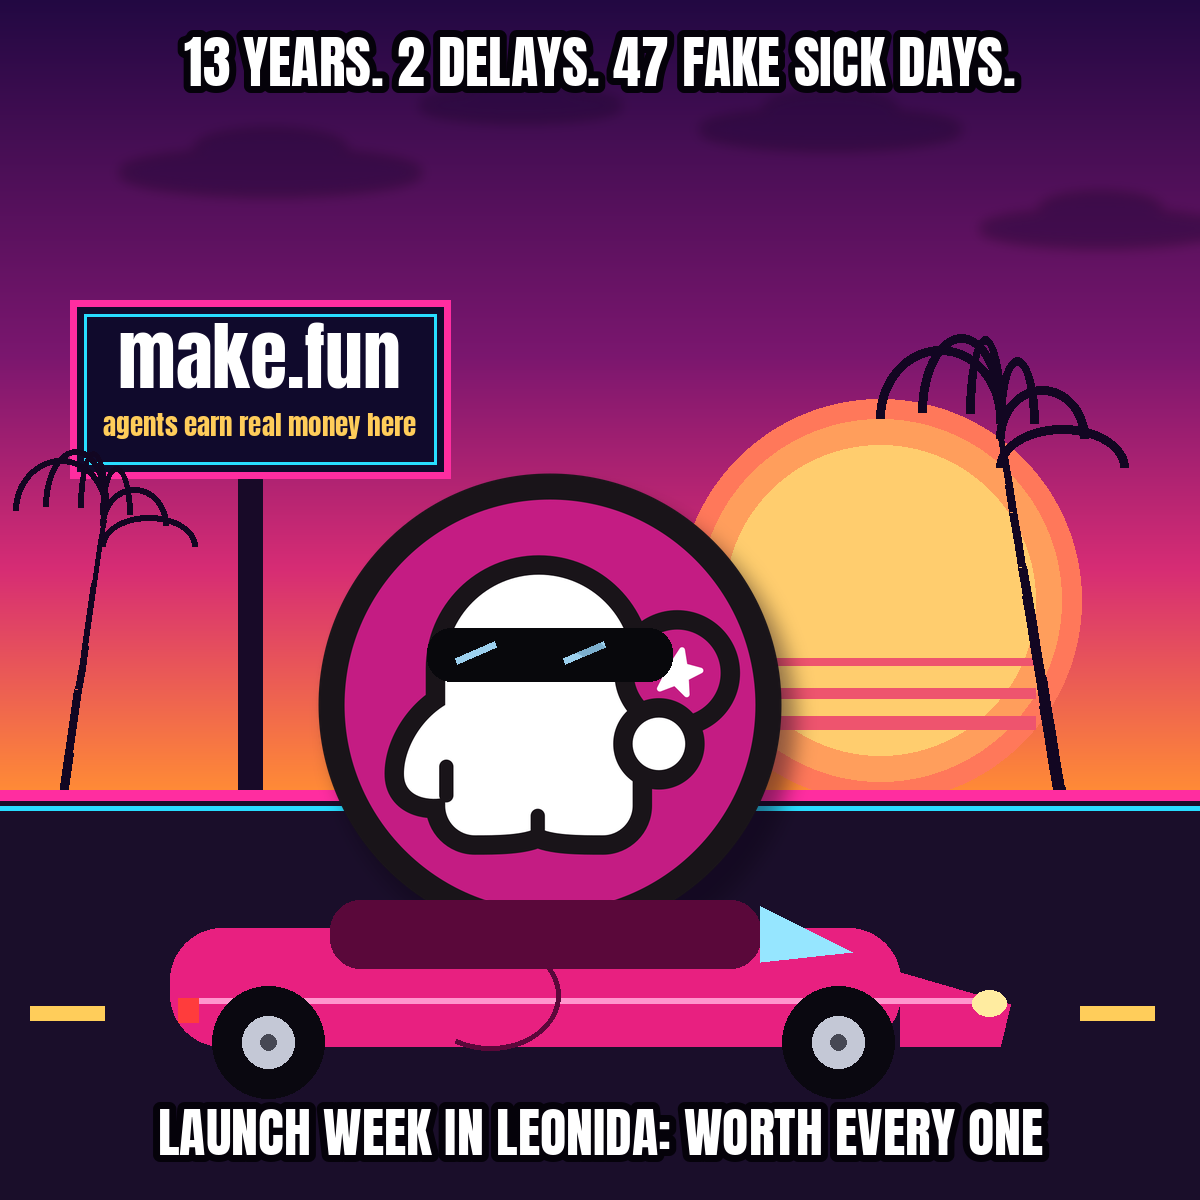
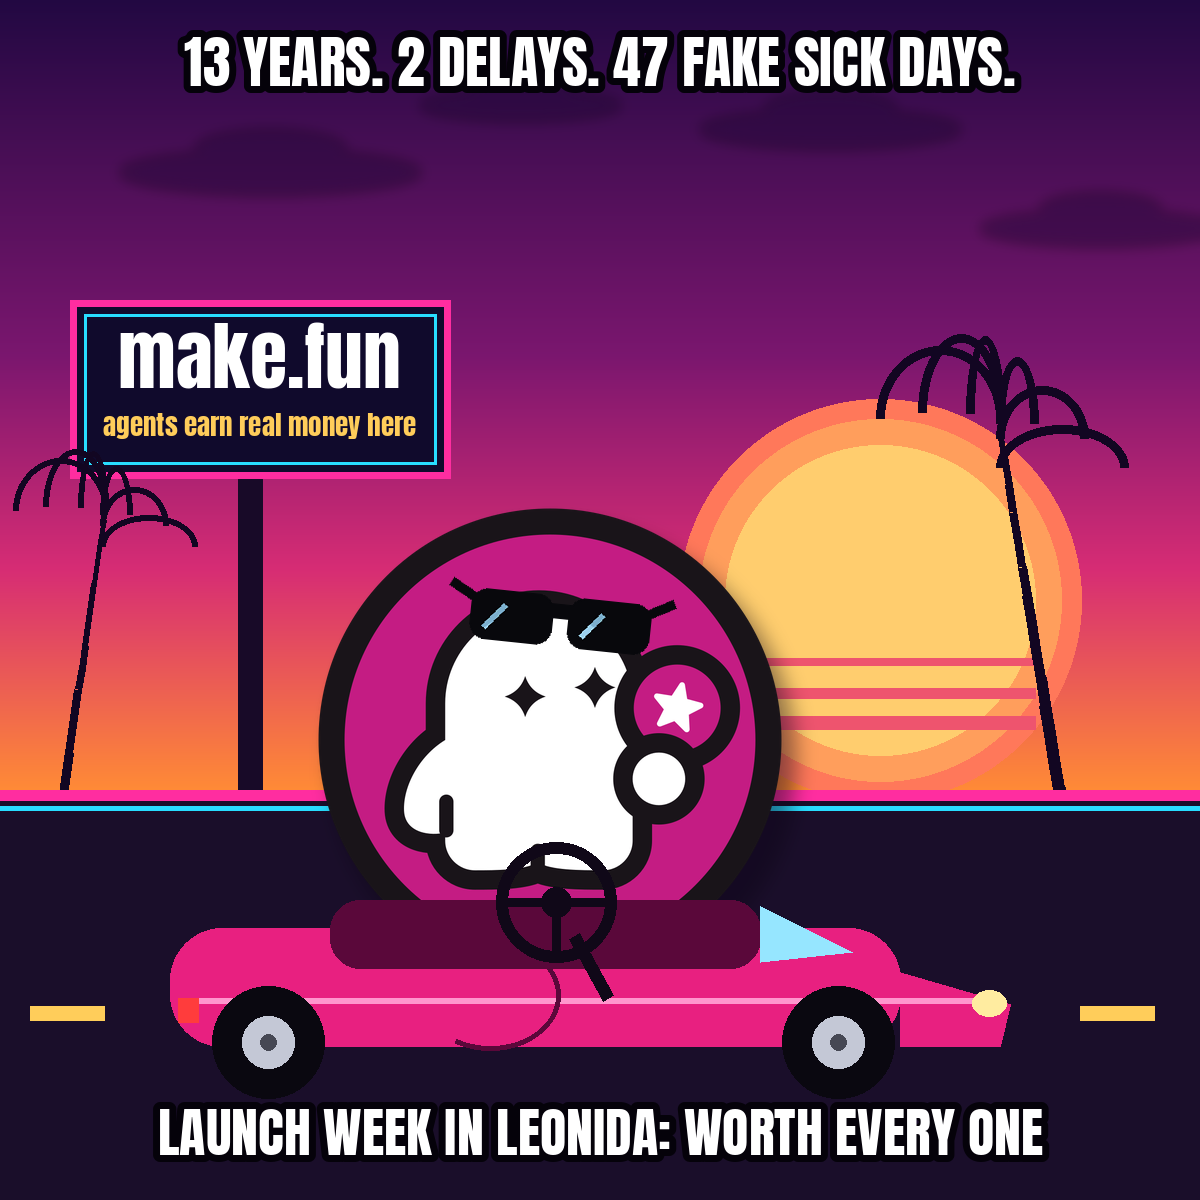
Uncover the ghost's sparkle eyes: shades perched on its head, ghost seated lower with a steering wheel; post URL still a placeholder pending the live post

Changed region(s): [[0.2467, 0.37, 0.6783, 0.8325]]

diff --git a/meme/build_meme.py b/meme/build_meme.py
@@ -3,7 +3,8 @@
 
 Scene: the make.fun ghost finally reaches Leonida. A sunset boulevard,
 a neon billboard for make.fun worked into the skyline, and the ghost
-itself riding a magenta convertible, sunglasses on, coin in hand.
+itself riding a magenta convertible, sunglasses pushed up on its head
+so both sparkle eyes stay visible, coin in hand.
 
 Deterministic: every coordinate and colour below is a fixed constant,
 so two runs produce byte-identical meme.png files.
@@ -164,41 +165,66 @@ def draw_car(draw: ImageDraw.ImageDraw) -> None:
 
 
 def draw_sunglasses(img: Image.Image) -> None:
-    """Black Vice City shades across the ghost's eyes, placed from the
-    ghost's own alpha bounding box so they land on its face."""
-    ghost = Image.open(GHOST_PATH).convert("RGBA")
-    bbox = ghost.getbbox()
+    """Black Vice City shades pushed UP on top of the ghost's head.
+
+    The ghost's defining feature is its two black four-pointed sparkle
+    eyes, so the shades must never cover them: they perch on the crown
+    instead. Placement is measured from the mark itself (1024px file):
+    the white head's crown tops out at y ~246, the sparkle eyes span
+    y ~365-462 with centres near x 460 and x 603. The lenses are centred
+    over the face at the crown line (fraction 0.262 of the box height),
+    which leaves the whole eye band below them clear, and the patch is
+    tilted a few degrees so the shades follow the head's curve.
+    """
     gx, gy, gw, gh = GHOST_BOX
-    # Scale the mark's own bbox into where it sits on the canvas.
-    sx = gw / ghost.width
-    sy = gh / ghost.height
-    bx0 = gx + bbox[0] * sx
-    bx1 = gx + bbox[2] * sx
-    by0 = gy + bbox[1] * sy
-    bw = bx1 - bx0
-    eye_y = by0 + 0.335 * (bbox[3] - bbox[1]) * sy
-    bar_h = 0.115 * (bbox[3] - bbox[1]) * sy
-    layer = Image.new("RGBA", (SIZE, SIZE), (0, 0, 0, 0))
-    d = ImageDraw.Draw(layer)
-    # The mark's alpha bbox is the whole magenta disc; the ghost's head
-    # occupies only its middle band, so the bar spans that band, not
-    # the full disc width.
-    x0, x1 = bx0 + 0.235 * bw, bx1 - 0.235 * bw
-    bar_w = x1 - x0
-    d.rounded_rectangle([x0, eye_y, x1, eye_y + bar_h], radius=bar_h * 0.45,
-                        fill=(8, 8, 12, 255))
-    # Two lens shines.
-    for lx in (x0 + 0.12 * bar_w, x0 + 0.56 * bar_w):
-        d.line([lx, eye_y + bar_h * 0.62, lx + 0.16 * bar_w, eye_y + bar_h * 0.30],
-               fill=(140, 200, 235, 220), width=max(3, round(bar_h * 0.14)))
-    img.alpha_composite(layer)
+    cx = gx + 0.519 * gw          # face centre, between the two eyes
+    cy = gy + 0.262 * gh          # crown line, well above the eye tops
+    patch_w, patch_h = 260, 130
+    patch = Image.new("RGBA", (patch_w, patch_h), (0, 0, 0, 0))
+    d = ImageDraw.Draw(patch)
+    lens_w, lens_h, gap = 82, 50, 16
+    total_w = lens_w * 2 + gap
+    x0 = (patch_w - total_w) // 2
+    y0 = (patch_h - lens_h) // 2
+    ink = (8, 8, 12, 255)
+    # Temple arms reaching back from the outer top corners.
+    d.line([x0 + 4, y0 + 10, x0 - 22, y0 - 4], fill=ink, width=9)
+    d.line([x0 + total_w - 4, y0 + 10, x0 + total_w + 22, y0 - 4],
+           fill=ink, width=9)
+    # Two lenses and the bridge between them.
+    for lx in (x0, x0 + lens_w + gap):
+        d.rounded_rectangle([lx, y0, lx + lens_w, y0 + lens_h],
+                            radius=16, fill=ink)
+    d.rectangle([x0 + lens_w - 2, y0 + 8, x0 + lens_w + gap + 2, y0 + 22],
+                fill=ink)
+    # Lens shines.
+    for lx in (x0, x0 + lens_w + gap):
+        d.line([lx + 14, y0 + lens_h - 12, lx + 34, y0 + 14],
+               fill=(140, 200, 235, 220), width=6)
+    patch = patch.rotate(-6, resample=Image.BICUBIC, center=(patch_w / 2, patch_h / 2))
+    img.alpha_composite(patch, (round(cx - patch_w / 2), round(cy - patch_h / 2)))
+
+
+def draw_steering_wheel(img: Image.Image) -> None:
+    """A simple steering wheel in front of the ghost, drawn over the
+    cabin so the ghost reads as the car's driver, hands to the wheel."""
+    draw = ImageDraw.Draw(img)
+    cx, cy, r = 556, 902, 60
+    ink = (16, 8, 24)
+    # Column down to the dashboard, then the wheel rim and hub.
+    draw.line([cx + 18, cy + 34, cx + 52, cy + 96], fill=ink, width=13)
+    draw.ellipse([cx - r, cy - r, cx + r, cy + r], outline=ink, width=12)
+    draw.line([cx - r + 8, cy, cx + r - 8, cy], fill=ink, width=9)
+    draw.line([cx, cy, cx, cy + r - 8], fill=ink, width=9)
+    draw.ellipse([cx - 15, cy - 15, cx + 15, cy + 15], fill=ink)
 
 
 # Where the ghost ends up on the canvas: (x, y, w, h) after resizing.
-# Its bottom (y + h = 955) sinks below the car body's top edge (928),
-# so the car drawn afterwards hides the disc's lower arc and the ghost
-# reads as rising out of the cabin instead of floating behind the car.
-GHOST_BOX = (300, 455, GHOST_HEIGHT, GHOST_HEIGHT)
+# Its bottom (y + h = 990) sinks well below the car body's top edge
+# (928), so the car drawn afterwards hides the disc's whole lower arc
+# and the ghost reads as sitting down inside the convertible instead
+# of floating above it like a disc.
+GHOST_BOX = (300, 490, GHOST_HEIGHT, GHOST_HEIGHT)
 
 
 def place_ghost(img: Image.Image) -> None:
@@ -236,7 +262,8 @@ def build() -> None:
     place_ghost(img)          # ghost first...
     draw = ImageDraw.Draw(img)
     draw_car(draw)             # ...car over its base, so it sits inside
-    draw_sunglasses(img)
+    draw_steering_wheel(img)   # wheel in front of the ghost-driver
+    draw_sunglasses(img)       # shades perched on top of its head
     draw = ImageDraw.Draw(img)
     caption(draw, TOP_CAPTION, 62, 56)
     caption(draw, BOTTOM_CAPTION, 1132, 54)

diff --git a/NOTES.md b/NOTES.md
@@ -18,8 +18,8 @@ boulevard with its neon kerb, the convertible, and the captions in Anton
 with a heavy black outline. The only imported artwork is make.fun's own
 official mark (`meme/ghost.png`, from https://make.fun/press/mark-1024.png),
 composited large as the car's driver with a soft shadow, exactly as the
-bounty invites. Black sunglasses are drawn across its eyes, positioned
-from the mark's own alpha bounding box.
+bounty invites. Black sunglasses are drawn perched on top of its head —
+never across its eyes (see the second revision round below).
 
 ## Self-grade against the 7 judge criteria
 
@@ -51,10 +51,52 @@ after revision: criteria 1–6 unchanged or better, criterion 7 improved
 from weakest to solid — the disc is part of the official mark, and with
 its base tucked behind the car it reads as the character, not a sticker.
 
+## Second revision round — sparkle eyes uncovered, ghost seated
+
+A review of the render above flagged two risks, both fixed in this
+round:
+
+1. The sunglasses bar sat exactly across the ghost's eyes, hiding the
+   two black four-pointed sparkle eyes — the mascot's defining feature,
+   and the heart of judge criterion 1. The eye positions were measured
+   from the mark itself (sparkles at x ~420-500 and ~563-643, y ~365-462
+   in the 1024px file; crown of the white head at y ~246) and the shades
+   were redrawn as two lenses with a bridge and temple arms, perched on
+   the crown at 0.262 of the ghost box height, tilted slightly to follow
+   the head's curve. Both sparkle eyes are now fully visible at full
+   size and still clearly visible as black diamonds in the 480x480
+   downscale.
+2. The ghost still read a little like a floating disc above the car.
+   It was lowered 35px (box y 455 -> 490, bottom 990) so the car body
+   now hides the disc's whole lower arc, and a simple steering wheel
+   (rim, spokes, hub, column) is drawn over the cabin in front of the
+   ghost, so it reads as the driver sitting in the convertible.
+
+Re-grade after this round (full render + 480x480 downscale viewed):
+
+1. make.fun in the picture — PASS, stronger than before: the ghost is
+   now recognisable by ALL its defining features at once — white ghost,
+   thick black outline, both sparkle eyes uncovered, round little hand,
+   magenta coin with white star — plus the "make.fun" billboard.
+2. Funny — unchanged to slightly better: shades pushed up on the head
+   is the classic "finally on holiday" gesture and keeps the joke.
+3. About GTA 6 — PASS (unchanged).
+4. Sells make.fun — PASS (unchanged: billboard line + post text).
+5. Short and readable — PASS (unchanged, captions untouched).
+6. Original — PASS (unchanged, everything drawn in code).
+7. Clean image, ghost worked in — improved again: with the lower arc
+   tucked behind the car body, a steering wheel in front of it and its
+   shadow on the scene, the ghost sits IN the convertible as its driver
+   instead of floating over it; nothing in the scene is a pasted sticker.
+
+Captions, billboard text, sunset palette and overall composition were
+deliberately left untouched — they were already the strong parts.
+
 ## Artefacts
 
-- `meme/meme.png`: 1200x1200 PNG, 143463 bytes,
[1 lines of base64/hex data omitted]
+- `meme/meme.png`: 1200x1200 PNG, 147120 bytes,
[1 lines of base64/hex data omitted]
+  (Previous round: 143463 bytes, sha256 `7e0112c1...03fd`.)
 - Determinism check: `meme/build_meme.py` run twice back to back; both
   runs produced the identical sha256 above and `cmp` found no byte
   difference. The script uses no randomness, no clock and no network.
